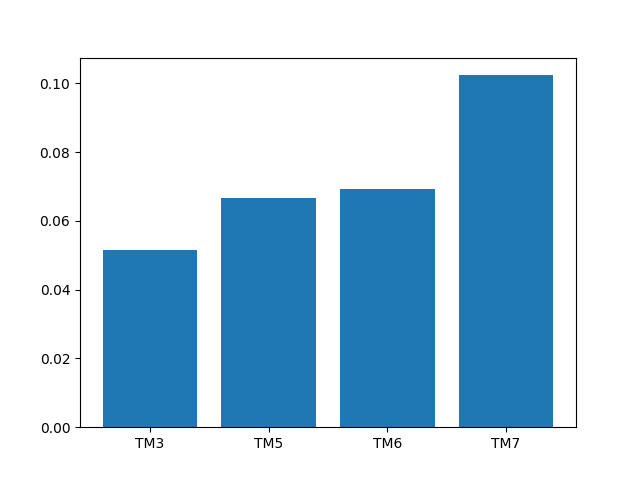
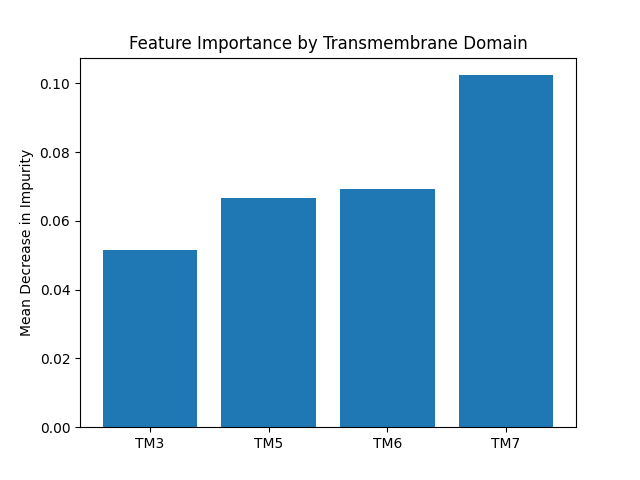
Adding labels and titles

Changed region(s): [[0.1875, 0.0625, 0.8125, 0.125], [0.0312, 0.3125, 0.0625, 0.7188]]

diff --git a/RF/Feature_Importance/Importance_Graph.py b/RF/Feature_Importance/Importance_Graph.py
@@ -28,12 +28,14 @@ for line in lines:
 print(values)
 print(domains)
 
-fig = plt.figure()
+fig,ax = plt.subplots()
 plt.bar(list(values.keys()), list(values.values()))
-
+ax.set_title("Feature Importance by Type")
+plt.ylabel('Mean Decrease in Impurity')
 fig.savefig('Relative_Feature_Importance.png')
 
-fig2 = plt.figure()
+fig2, ax2 = plt.subplots()
 plt.bar(list(domains.keys()), list(domains.values()))
-
+ax2.set_title("Feature Importance by Transmembrane Domain")
+plt.ylabel('Mean Decrease in Impurity')
 fig2.savefig('Domain_Importance.png')
